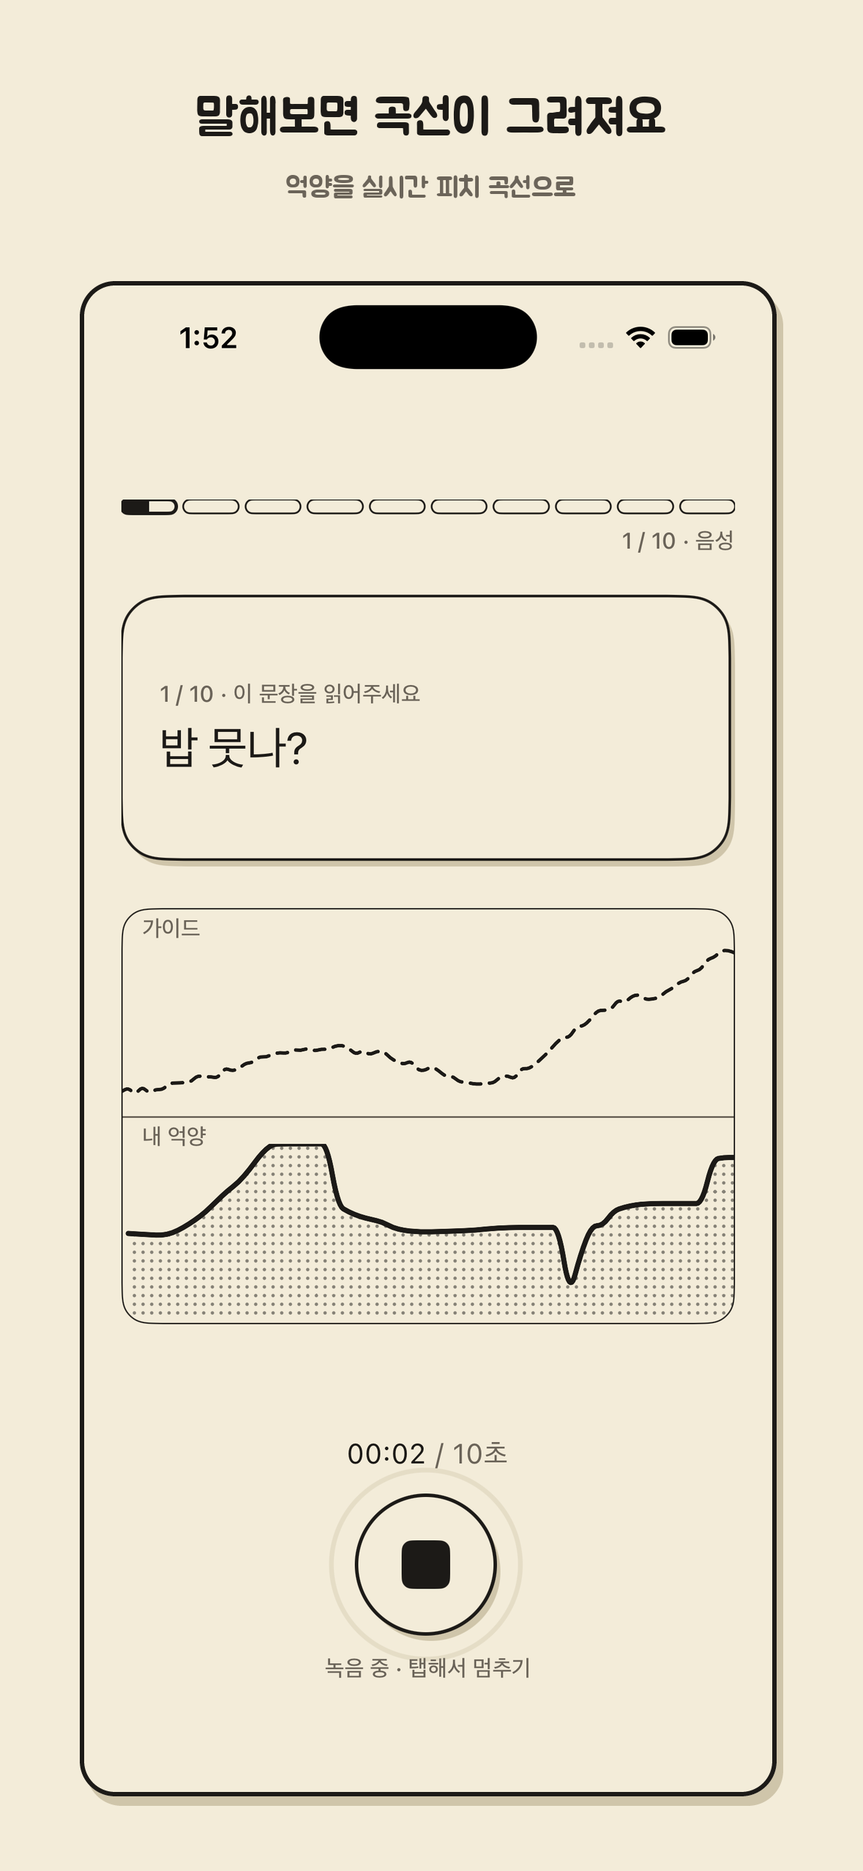
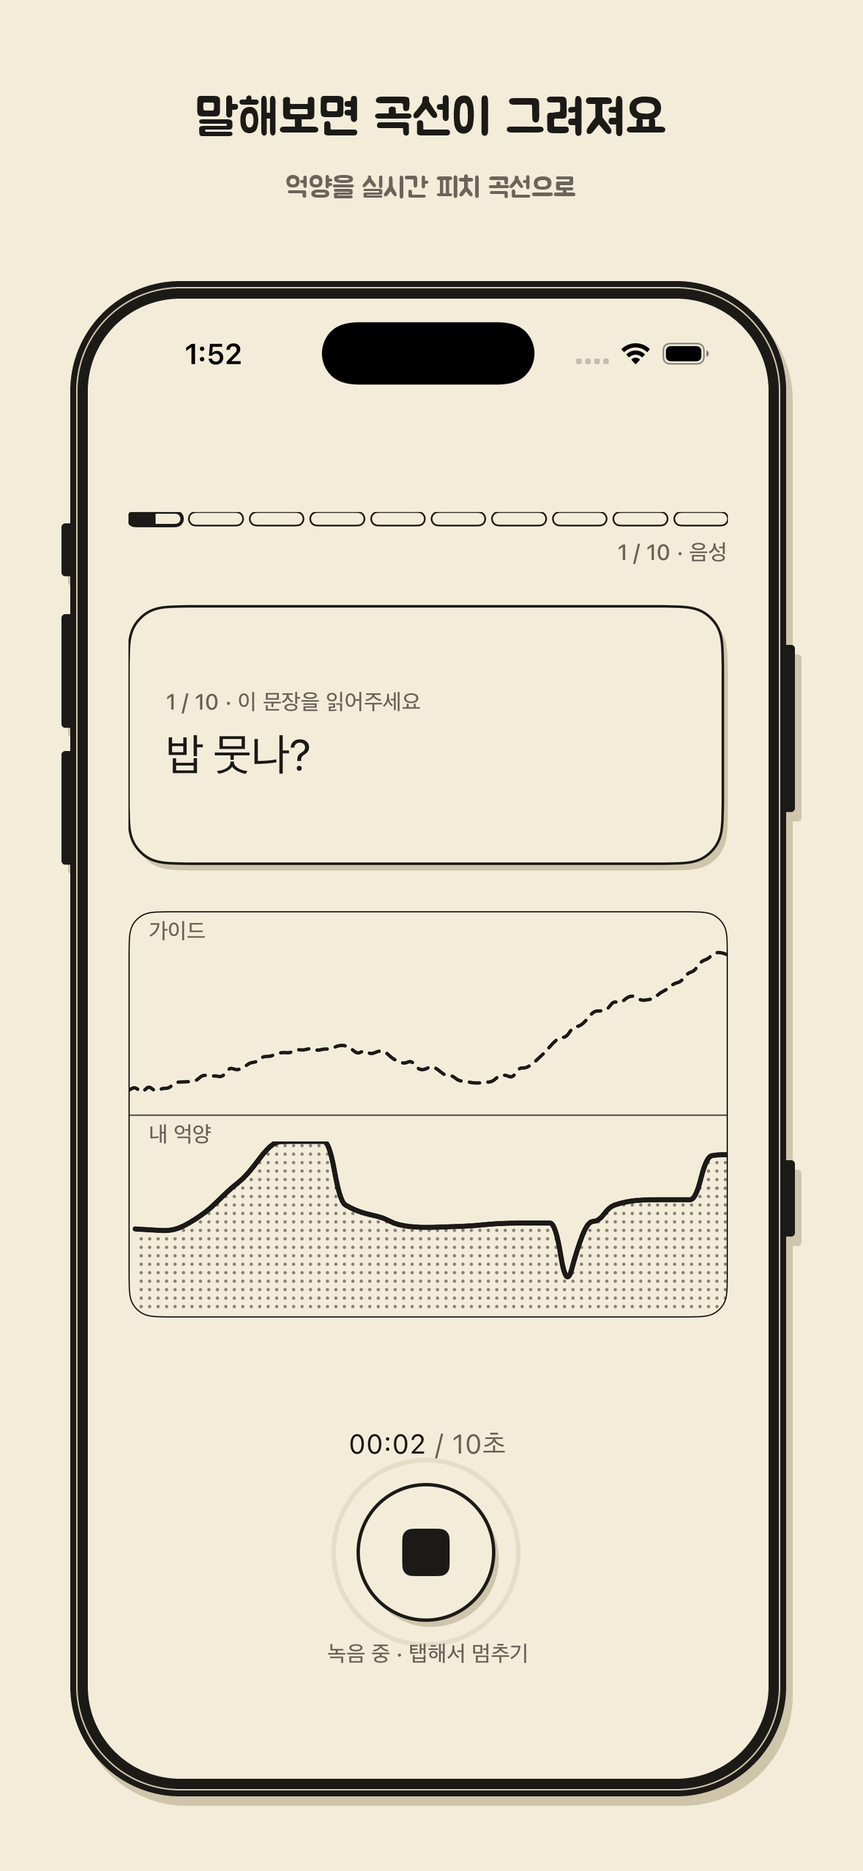
KAN-178 스크린샷 프레임을 기기 실루엣으로 - iOS는 iPhone 17 Pro, Android는 Galaxy S25
- DEVICE_IPHONE_17_PRO / DEVICE_GALAXY_S25 딕셔너리(화면 코너 반경·베젤·펀치홀·버튼 목록)와 PLATFORM_DEVICE 매핑. 기기 교체 = 딕셔너리 수정
- iPhone: 균일 얇은 베젤, 큰 코너, 왼쪽 액션·볼륨 2, 오른쪽 전원·카메라 컨트롤 / Galaxy: 작은 코너, 상단 중앙 펀치홀, 오른쪽 볼륨·전원, 하단 턱
- 본체+버튼을 한 마스크로 그려 그림자를 함께 드리움, 베젤 안쪽 종이그림자 띠(RAIL)로 금속 프레임 표현
- 검증표에 플랫폼별 버튼 여백(≥3%) 행 추가, 14/14 PASS. README 기기 프레임 절 추가

Claude-Session: https://claude.ai/code/session_01Nud2Q8pYYmbEKkf6aeyY5Q

diff --git a/assets/screenshots/build.py b/assets/screenshots/build.py
@@ -3,8 +3,13 @@
 
 원본은 `raw/android/<화면>.png`(에뮬레이터 캡처)와 `raw/ios/<화면>.png`(시뮬레이터 캡처)다. 그대로
 올려도 규격은 맞지만 네 장이 무슨 화면인지 스토어에서 읽히지 않는다. 그래서 화면마다 같은 틀을
-씌운다 — 크림 배경, 위쪽에 문구 두 줄(Jua), 아래에 캡처를 종이 조각처럼 앉힌 것(둥근 모서리 +
-잉크 테두리 + 오프셋 그림자). `assets/characters/build.py`의 공유 카드와 같은 구성이다.
+씌운다 — 크림 배경, 위쪽에 문구 두 줄(Jua), 아래에 캡처를 실제 기기 실루엣에 끼운 것(베젤 + 옆면
+버튼 + 오프셋 그림자). `assets/characters/build.py`의 공유 카드와 같은 Papercut 구성이다.
+
+실루엣은 플랫폼마다 다르다 — iOS 캡처는 iPhone 17 Pro(네 변 같은 얇은 베젤, 크게 둥근 모서리,
+왼쪽 3 + 오른쪽 2 버튼), Android 캡처는 Galaxy S25(더 각진 모서리, 펀치홀, 오른쪽 2 버튼).
+치수는 전부 `DEVICE_IPHONE_17_PRO` · `DEVICE_GALAXY_S25` 딕셔너리에 비율로 들어 있고,
+`PLATFORM_DEVICE`가 원본 폴더를 거기에 잇는다. **기기를 바꾸려면 딕셔너리만 고친다.**
 
 - Play 스토어      → `out/play/<화면>.png` (1080×1920) ← `raw/android/`
 - App Store 6.7"   → `out/appstore-6.7/<화면>.png` (1290×2796) ← `raw/ios/`
@@ -17,8 +22,8 @@
     /Users/iseongju/accentury/.venv/bin/python assets/screenshots/build.py
     ... --raw <원본 폴더> --out <출력 폴더>   # 임시 캡처로 배치만 확인할 때
 
-Pillow·numpy가 필요하다(위 venv에 있다). 끝에 규격 검증표를 찍는다 — 하나라도 FAIL이면 종료 코드 1,
-SKIP만 있으면 0이다.
+Pillow·numpy가 필요하다(위 venv에 있다). 끝에 규격 검증표를 찍는다 — 규격 12줄 + 플랫폼별 버튼
+여백 2줄. 하나라도 FAIL이면 종료 코드 1, SKIP만 있으면 0이다.
 """
 
 from __future__ import annotations
@@ -65,12 +70,51 @@ SIDE_MARGIN = 0.06  # W — 캡처 좌우 최소 여백
 TEXT_MAX_W = 0.88  # W — 문구가 이보다 넓으면 글자를 줄인다
 HEADLINE_FRAC = 0.058  # W
 SUB_FRAC = 0.032  # W
-MIN_CAPTURE_W = 0.62  # W — 세로로 긴 캡처를 높이에 맞추면 너무 작아진다. 이보다 좁아질 바에는
-#                            폭을 이 값으로 키우고 아래를 프레임 밖으로 흘린다(잘림).
-CORNER_R = 0.05  # 캡처 폭 대비 둥근 모서리 반지름
-OUTLINE_FRAC = 0.005  # W — 잉크 테두리 두께 (최소 4px)
+MIN_DEVICE_W = 0.62  # W — 세로로 긴 기기를 높이에 맞추면 너무 작아진다. 실루엣 폭이 이보다 좁아질
+#                          바에는 폭을 이 값으로 키우고 아래를 프레임 밖으로 흘린다(잘림).
 SHADOW_DX, SHADOW_DY = 0.0080, 0.0107  # W — 오프셋 그림자 (토큰 3:4 비율)
 SS = 4  # 마스크 안티에일리어싱 배수
+
+# --- 기기 실루엣 ----------------------------------------------------------------------------
+# 캡처를 그냥 둥근 네모에 넣으면 "어느 폰인지" 안 읽힌다. 아래 두 딕셔너리가 실루엣을 정한다 —
+# 화면 모서리 반지름·베젤 두께·옆면 버튼 위치. **기기를 갈아끼우려면 딕셔너리만 고친다.**
+# 값은 전부 비율이라 세 출력 규격에서 같은 그림이 나온다.
+BUTTON_THICK = 0.012  # 본체 폭 대비 — 버튼이 본체 밖으로 튀어나온 두께
+BUTTON_R = 0.45  # 버튼 두께 대비 모서리 반지름
+RAIL_DEPTH = 0.34  # 베젤 두께 대비 — 금속 테 띠가 앉는 깊이 (바깥에 잉크 테두리를 남긴다)
+RAIL_W = 0.0026  # 화면 폭 대비 테 띠 두께
+
+# iPhone 17 Pro — 네 변 베젤이 같고, 화면 모서리가 크게 둥글다. 왼쪽 3개(액션·볼륨 업·볼륨 다운)
+# 오른쪽 2개(전원·카메라 컨트롤). 버튼 값은 (변, 본체 높이 대비 시작, 본체 높이 대비 길이).
+DEVICE_IPHONE_17_PRO = {
+    "label": "iPhone 17 Pro",
+    "screen_radius": 0.135,  # 화면 폭 대비
+    "bezel": {"left": 0.026, "right": 0.026, "top": 0.026, "bottom": 0.026},  # 화면 폭 대비
+    "punch_hole": None,  # 다이내믹 아일랜드는 캡처 안에 이미 있다 — 그리지 않는다
+    "buttons": [
+        ("left", 0.160, 0.035),  # 액션 버튼
+        ("left", 0.220, 0.075),  # 볼륨 업
+        ("left", 0.310, 0.075),  # 볼륨 다운
+        ("right", 0.240, 0.110),  # 전원(사이드) 버튼
+        ("right", 0.580, 0.050),  # 카메라 컨트롤
+    ],
+}
+
+# Galaxy S25 — 평평한 알루미늄 테라 모서리가 훨씬 각지고, 베젤은 더 얇되 아래턱이 조금 두껍다.
+# 앞면 카메라는 화면을 뚫은 펀치홀이라 직접 그린다. 버튼은 오른쪽 두 개뿐이다.
+DEVICE_GALAXY_S25 = {
+    "label": "Galaxy S25",
+    "screen_radius": 0.070,
+    "bezel": {"left": 0.016, "right": 0.016, "top": 0.016, "bottom": 0.020},
+    "punch_hole": (0.026, 0.023),  # (화면 폭 대비 지름, 화면 높이 대비 중심 y)
+    "buttons": [
+        ("right", 0.190, 0.090),  # 볼륨 로커 (한 덩어리)
+        ("right", 0.310, 0.045),  # 전원(사이드) 키
+    ],
+}
+
+# 원본 폴더 이름 → 기기. iOS 두 규격은 같은 시뮬레이터 캡처를 쓰니 같은 실루엣을 받는다.
+PLATFORM_DEVICE = {"android": DEVICE_GALAXY_S25, "ios": DEVICE_IPHONE_17_PRO}
 
 # --- 캐릭터 스티커 -------------------------------------------------------------------------
 # 결과 화면에만 "경남 토박이"를 겹쳐 놓는다. `assets/characters/build.py` 산출물이라 없으면 건너뛴다.
@@ -126,25 +170,122 @@ def line_height(font: ImageFont.FreeTypeFont) -> int:
 
 
 # ==========================================================================================
-# 2. 프레임 한 장
+# 2. 기기 실루엣
 # ==========================================================================================
 
 
-def place(cap_w: int, cap_h: int, top: int, W: int, H: int) -> tuple[int, int, int, int]:
-    """캡처를 앉힐 (x, y, 폭, 높이). 기본은 전체가 다 보이게 맞추고, 그러면 폭이
-    MIN_CAPTURE_W보다 좁아질 때만 폭을 키워 아래를 프레임 밖으로 흘린다."""
+def geometry(device: dict, sw: int, sh: int) -> dict:
+    """화면 크기(sw × sh)에서 실루엣 치수를 전부 뽑는다. 길이는 모두 화면 폭 기준이라
+    출력 규격이 달라도 비율이 같다. 캔버스는 본체 + 좌우 버튼 돌출분이다."""
+    b = device["bezel"]
+    bl, br = max(1, round(sw * b["left"])), max(1, round(sw * b["right"]))
+    bt, bb = max(1, round(sw * b["top"])), max(1, round(sw * b["bottom"]))
+    body_w, body_h = sw + bl + br, sh + bt + bb
+    out = max(2, round(body_w * BUTTON_THICK))
+    screen_r = max(1, round(sw * device["screen_radius"]))
+    return {
+        "sw": sw,
+        "sh": sh,
+        "body_w": body_w,
+        "body_h": body_h,
+        "body_r": screen_r + bl,  # 동심 — 바깥 반지름 = 화면 반지름 + 베젤
+        "screen_r": screen_r,
+        "out": out,
+        "canvas_w": body_w + 2 * out,
+        "canvas_h": body_h,
+        "screen_xy": (out + bl, bt),
+        "bezel": bl,
+        "rail": max(1, round(sw * RAIL_W)),
+    }
+
+
+def silhouette(device: dict, g: dict) -> Image.Image:
+    """본체 + 버튼을 한 덩어리로 그린 마스크. 그림자는 이걸 그대로 옮겨 찍는다 —
+    따로 그리면 버튼 그림자가 어긋난다."""
+    W, H = g["canvas_w"], g["canvas_h"]
+    big = Image.new("L", (W * SS, H * SS), 0)
+    d = ImageDraw.Draw(big)
+    x0, x1 = g["out"] * SS, (g["out"] + g["body_w"]) * SS - 1
+    d.rounded_rectangle([x0, 0, x1, H * SS - 1], radius=g["body_r"] * SS, fill=255)
+    br = max(1, round(g["out"] * BUTTON_R)) * SS
+    for side, top_f, h_f in device["buttons"]:
+        y0 = round(top_f * g["body_h"]) * SS
+        y1 = y0 + max(1, round(h_f * g["body_h"])) * SS
+        span = [0, y0, x0 + g["out"] * SS, y1] if side == "left" else [x1 - g["out"] * SS, y0, W * SS - 1, y1]
+        d.rounded_rectangle(span, radius=br, fill=255)  # 본체 안으로 겹쳐 그려 이음매를 없앤다
+    return big.resize((W, H), Image.BOX)
+
+
+def button_extent(device: dict, g: dict) -> tuple[int, int] | None:
+    """버튼이 실제로 차지하는 x 범위(캔버스 기준). 버튼이 없는 변은 빼고 잰다 —
+    검증표에서 "가장 바깥 버튼 픽셀이 프레임 안에 있나"를 이 값으로 본다."""
+    xs: list[int] = []
+    for side, _, _ in device["buttons"]:
+        xs.append(0 if side == "left" else g["canvas_w"] - 1)
+    return (min(xs), max(xs)) if xs else None
+
+
+def draw_device(cap: Image.Image, device: dict, g: dict) -> tuple[Image.Image, Image.Image]:
+    """(기기 그림 RGBA, 실루엣 마스크). 본체는 잉크 한 색이고, 베젤 안쪽에 종이 그림자색 띠를
+    한 줄 넣어 금속 테를 암시한다. 화면에는 캡처를 그대로 앉힌다."""
+    W, H = g["canvas_w"], g["canvas_h"]
+    mask = silhouette(device, g)
+    dev = Image.new("RGBA", (W, H), (0, 0, 0, 0))
+    dev.paste(Image.new("RGB", (W, H), INK), (0, 0), mask)
+
+    # 금속 테 띠 — 베젤 안쪽 34% 깊이에 한 줄. 크림으로 넣으면 베젤이 두 겹으로 갈라져 보여서
+    # 종이 그림자색을 쓴다. 바깥에는 잉크가 남아 Papercut 테두리가 끊기지 않는다.
+    inset = max(1, round(g["bezel"] * RAIL_DEPTH))
+    ring = ImageChops.subtract(
+        rounded_mask(g["body_w"], g["body_h"], g["body_r"], inset),
+        rounded_mask(g["body_w"], g["body_h"], g["body_r"], inset + g["rail"]),
+    )
+    dev.paste(Image.new("RGB", (g["body_w"], g["body_h"]), PAPER_SHADOW), (g["out"], 0), ring)
+
+    # 화면 = 캡처. 상태바·홈 인디케이터·다이내믹 아일랜드는 캡처 안에 이미 있다.
+    sw, sh = g["sw"], g["sh"]
+    dev.paste(resize_rgba(cap, sw, sh).convert("RGB"), g["screen_xy"], rounded_mask(sw, sh, g["screen_r"]))
+
+    # 펀치홀(Galaxy) — 화면을 뚫은 앞면 카메라라 캡처 위에 찍는다.
+    if device["punch_hole"]:
+        dia_f, cy_f = device["punch_hole"]
+        dia = max(2, round(sw * dia_f))
+        cx = g["screen_xy"][0] + sw // 2
+        cy = g["screen_xy"][1] + round(sh * cy_f)
+        hole = rounded_mask(dia, dia, dia // 2)
+        dev.paste(Image.new("RGB", (dia, dia), INK), (cx - dia // 2, cy - dia // 2), hole)
+
+    return dev, mask
+
+
+# ==========================================================================================
+# 3. 프레임 한 장
+# ==========================================================================================
+
+
+def place(cap_w: int, cap_h: int, device: dict, top: int, W: int, H: int) -> tuple[int, int]:
+    """기기를 앉힐 화면 크기 (폭, 높이). 기본은 실루엣 전체가 다 보이게 맞추고, 그러면 폭이
+    MIN_DEVICE_W보다 좁아질 때만 폭을 키워 아래를 프레임 밖으로 흘린다.
+
+    베젤·버튼도 화면 폭에 비례하니, 실루엣 폭 = 화면 폭 × kw, 실루엣 높이 = 화면 폭 × kh 로
+    한 번에 풀린다. 버튼이 잘리지 않게 여백은 실루엣(=버튼 포함) 기준으로 잡는다."""
+    b = device["bezel"]
+    kw = (1 + b["left"] + b["right"]) * (1 + 2 * BUTTON_THICK)  # 화면 폭 → 실루엣 폭
+    kh = cap_h / cap_w + b["top"] + b["bottom"]  # 화면 폭 → 실루엣 높이
     dx, dy = round(W * SHADOW_DX), round(W * SHADOW_DY)
     max_w = W - 2 * round(W * SIDE_MARGIN) - dx
     avail_h = H - top - round(H * BOTTOM_PAD) - dy
 
-    scale = min(max_w / cap_w, avail_h / cap_h)
-    if scale * cap_w < W * MIN_CAPTURE_W:
-        scale = min(max_w / cap_w, W * MIN_CAPTURE_W / cap_w)
-    pw, ph = max(1, round(cap_w * scale)), max(1, round(cap_h * scale))
-    return (W - pw - dx) // 2, top, pw, ph
+    sw = min(max_w / kw, avail_h / kh)
+    if sw * kw < W * MIN_DEVICE_W:
+        sw = min(max_w / kw, W * MIN_DEVICE_W / kw)
+    return max(1, round(sw)), max(1, round(sw * cap_h / cap_w))
 
 
-def render(cap: Image.Image, screen: str, W: int, H: int, sticker: Image.Image | None) -> Image.Image:
+def render(
+    cap: Image.Image, screen: str, device: dict, W: int, H: int, sticker: Image.Image | None
+) -> tuple[Image.Image, float | None]:
+    """(프레임, 가장 바깥 버튼 픽셀의 좌우 여백 중 작은 쪽 / W). 여백은 검증표가 본다."""
     frame = Image.new("RGBA", (W, H), CREAM + (255,))
     draw = ImageDraw.Draw(frame)
 
@@ -158,17 +299,18 @@ def render(cap: Image.Image, screen: str, W: int, H: int, sticker: Image.Image |
     draw.text((W // 2, y), sub, font=sub_font, fill=MUTED, anchor="ma")
     y += line_height(sub_font) + round(H * BLOCK_GAP)
 
-    # 캡처 = 종이 조각. 그림자 → 캡처 → 잉크 테두리 순으로 얹는다.
-    x, y, pw, ph = place(cap.width, cap.height, y, W, H)
-    radius = max(1, round(pw * CORNER_R))
-    outline = max(4, round(W * OUTLINE_FRAC))
-    mask = rounded_mask(pw, ph, radius)
-    ring = ImageChops.subtract(mask, rounded_mask(pw, ph, radius, inset=outline))
-
+    # 기기 = 종이 조각. 그림자(실루엣을 통째로 옮긴 것) → 기기 순으로 얹는다.
+    sw, sh = place(cap.width, cap.height, device, y, W, H)
+    g = geometry(device, sw, sh)
+    dev, mask = draw_device(cap, device, g)
     dx, dy = round(W * SHADOW_DX), round(W * SHADOW_DY)
-    frame.paste(Image.new("RGB", (pw, ph), PAPER_SHADOW), (x + dx, y + dy), mask)
-    frame.paste(resize_rgba(cap, pw, ph).convert("RGB"), (x, y), mask)
-    frame.paste(Image.new("RGB", (pw, ph), INK), (x, y), ring)
+    x = (W - g["canvas_w"] - dx) // 2
+
+    frame.paste(Image.new("RGB", (g["canvas_w"], g["canvas_h"]), PAPER_SHADOW), (x + dx, y + dy), mask)
+    frame.alpha_composite(dev, (x, y))
+
+    span = button_extent(device, g)
+    margin = min(x + span[0], W - 1 - (x + span[1])) / W if span else None
 
     # 캐릭터 스티커 — 캡처 오른쪽 아래 모서리에 걸치게 둔다.
     if sticker is not None and screen == STICKER_SCREEN:
@@ -176,7 +318,7 @@ def render(cap: Image.Image, screen: str, W: int, H: int, sticker: Image.Image |
         fig = resize_rgba(sticker, sw, max(1, round(sticker.height * sw / sticker.width)))
         frame.alpha_composite(fig, (W - round(W * STICKER_RIGHT) - fig.width, H - round(H * STICKER_BOTTOM) - fig.height))
 
-    return frame.convert("RGB")
+    return frame.convert("RGB"), margin
 
 
 def save_png_under(img: Image.Image, path: Path, limit: int) -> int:
@@ -189,8 +331,10 @@ def save_png_under(img: Image.Image, path: Path, limit: int) -> int:
 
 
 # ==========================================================================================
-# 3. 검증
+# 4. 검증
 # ==========================================================================================
+
+BUTTON_MARGIN_MIN = 0.03  # W — 가장 바깥 버튼 픽셀이 프레임 변에서 이만큼은 떨어져 있어야 한다
 
 
 def validate(path: Path, W: int, H: int) -> tuple[str, bool | None]:
@@ -220,15 +364,32 @@ def main() -> None:
     print(f"캐릭터 스티커: {'native.webp' if sticker else '없음 (건너뜀)'}\n")
 
     rows: list[tuple[str, str, bool | None]] = []
+    margins: dict[str, list[float]] = {}
     for out_name, raw_name, W, H in OUTPUTS:
+        device = PLATFORM_DEVICE[raw_name]
         for screen in SCREENS:
             src = args.raw / raw_name / f"{screen}.png"
             dst = args.out / out_name / f"{screen}.png"
             if src.exists():
                 with Image.open(src) as cap:
-                    save_png_under(render(cap.convert("RGB"), screen, W, H, sticker), dst, MAX_BYTES)
+                    frame, margin = render(cap.convert("RGB"), screen, device, W, H, sticker)
+                save_png_under(frame, dst, MAX_BYTES)
+                if margin is not None:
+                    margins.setdefault(raw_name, []).append(margin)
             detail, ok = validate(dst if src.exists() else src, W, H)
             rows.append((f"{out_name}/{screen}", detail, ok))
+
+    # 플랫폼마다 한 줄 — 버튼이 프레임 밖으로 나가거나 변에 붙지 않았나. 실루엣이 넓어지면
+    # 여기부터 FAIL이 뜨니 MIN_DEVICE_W·SIDE_MARGIN을 줄이라는 신호다.
+    for raw_name, device in PLATFORM_DEVICE.items():
+        got = margins.get(raw_name)
+        label = f"버튼 여백/{raw_name}"
+        if not got:
+            rows.append((label, f"{device['label']} 원본 캡처 없음", None))
+            continue
+        worst = min(got)
+        detail = f"{device['label']} 가장 바깥 버튼 여백 {worst * 100:.1f}% (≥{BUTTON_MARGIN_MIN * 100:.0f}%)"
+        rows.append((label, detail, worst >= BUTTON_MARGIN_MIN))
 
     width = max(len(label) for label, _, _ in rows)
     for label, detail, ok in rows:

diff --git a/assets/screenshots/README.md b/assets/screenshots/README.md
@@ -1,8 +1,8 @@
 # 스토어 스크린샷 (KAN-178)
 
 Play 스토어·App Store에 올리는 스크린샷 네 장의 **원본 캡처와 생성 스크립트**가 여기 있다.
-`build.py`가 기기 캡처 한 장에 같은 프레임(크림 배경 + 문구 두 줄 + 종이 조각처럼 앉힌 캡처)을 씌워
-규격별 파생본을 만든다 — **생성물은 손으로 고치지 않는다.**
+`build.py`가 기기 캡처 한 장에 같은 프레임(크림 배경 + 문구 두 줄 + 실제 기기 실루엣에 끼운 캡처)을
+씌워 규격별 파생본을 만든다 — **생성물은 손으로 고치지 않는다.**
 
 ## 폴더 구성
 
@@ -25,15 +25,34 @@ out/appstore-6.1/<화면>.png  App Store 6.1" 1179×2556       (생성물)
 - 바탕은 크림 `#F3ECD9` 한 색이다. 앱 화면과 같은 종이 위에 캡처를 오려 붙인 것으로 읽히게 한다
 - 위쪽에 문구 두 줄 — 헤드라인은 Jua 잉크 `#1C1A17`, 보조 줄은 Jua 작게 `#6B6459`. 가운데 정렬이고,
   프레임 폭의 88%를 넘으면 글자 크기를 줄인다(잘린 문구가 스토어에 걸리는 게 최악이다)
-- 아래에 캡처. 둥근 모서리(캡처 폭의 5%) + 잉크 테두리 + `#CFC5AA` 오프셋 그림자 — `docs/wiki/design-tokens.md`
-  §2의 Papercut 규칙(3px 4px 0)을 프레임 폭 비율로 옮긴 값이다
+- 아래에 캡처. 그냥 둥근 네모가 아니라 **실제 기기 실루엣**에 끼운다(아래 표) — 잉크 베젤 + 옆면 버튼 +
+  `#CFC5AA` 오프셋 그림자. 그림자는 본체와 버튼을 한 덩어리로 묶은 마스크를 그대로 옮겨 찍는다.
+  `docs/wiki/design-tokens.md` §2의 Papercut 규칙(3px 4px 0)을 프레임 폭 비율로 옮긴 값이다
 - `04-result`에만 캐릭터 스티커(`web/src/assets/characters/native.webp`, 경남 토박이)를 오른쪽 아래
   모서리에 걸쳐 놓는다. 그 파일이 없으면 스티커 없이 만든다(`assets/characters/build.py` 산출물이다)
 
+### 기기 실루엣
+
+플랫폼마다 다른 폰을 쓴다. 스토어에서 그 폰으로 찍은 것처럼 읽혀야 하기 때문이다.
+
+| 원본 폴더 | 기기 | 화면 모서리 | 베젤 | 버튼 | 그 밖에 |
+| --- | --- | --- | --- | --- | --- |
+| `raw/ios/` | iPhone 17 Pro | 화면 폭의 13.5% | 네 변 모두 2.6% | 왼쪽 3(액션·볼륨 업·볼륨 다운) · 오른쪽 2(전원·카메라 컨트롤) | 다이내믹 아일랜드·홈 인디케이터는 캡처 안에 있어 그리지 않는다 |
+| `raw/android/` | Galaxy S25 | 화면 폭의 7% | 좌우·위 1.6%, 아래턱 2.0% | 오른쪽 2(볼륨 로커·전원) | 앞면 카메라 펀치홀을 화면 위에 직접 찍는다 |
+
+치수는 `build.py`의 `DEVICE_IPHONE_17_PRO` · `DEVICE_GALAXY_S25` 딕셔너리에 전부 **화면 폭 대비 비율**로
+들어 있고, `PLATFORM_DEVICE = {"android": ..., "ios": ...}`가 원본 폴더를 기기에 잇는다. **기기를 갈아끼우려면
+그 딕셔너리만 고친다** — 버튼은 `(변, 본체 높이 대비 시작, 본체 높이 대비 길이)` 세 값이다. 비율이라 세 출력
+규격에서 같은 그림이 나온다.
+
+베젤 안쪽에는 `#CFC5AA` 띠를 한 줄 넣어 금속 테를 암시한다(`RAIL_DEPTH`·`RAIL_W`). 크림으로 넣어 봤더니
+베젤이 두 겹으로 갈라져 보여서 종이 그림자색을 썼다.
+
 캡처는 **전체가 다 보이는 크기**로 넣는다. 좌우 여백이 6% 이상이면 잘라내지 않는다는 뜻이라, 9:16
-프레임(Play)에 20:9 캡처를 넣으면 좌우가 18%씩 비고 캡처는 프레임 폭의 64%가 된다. 그림 아래쪽이
+프레임(Play)에 20:9 캡처를 넣으면 좌우가 16%씩 비고 기기는 프레임 폭의 66%가 된다. 그림 아래쪽이
 잘려서 버튼이 사라지는 것보다 낫다고 봤다. 캡처가 더 길어져 폭이 프레임의 62% 아래로 떨어질 때만
-폭을 62%로 키우고 아래를 프레임 밖으로 흘린다(`MIN_CAPTURE_W`).
+폭을 62%로 키우고 아래를 프레임 밖으로 흘린다(`MIN_DEVICE_W`). 여백·최소 폭은 모두 **버튼을 포함한
+실루엣** 기준이라 버튼이 잘리는 일은 없다 — 검증표 마지막 두 줄이 그걸 본다.
 
 Android 상태바·내비게이션 바는 **자르지 않는다.** Play가 허용하고, 자르기 시작하면 기기마다 기준이
 갈린다. 크기만 맞춘다.
@@ -78,8 +97,9 @@ xcrun simctl io booted screenshot assets/screenshots/raw/ios/01-intro.png
 ... assets/screenshots/build.py --raw <원본 폴더> --out <출력 폴더>
 ```
 
-Pillow·numpy가 필요하다(위 venv에 있다). 끝에 규격 검증표를 찍는다 — 파일 존재·정확한 픽셀 크기·
-알파 없는 RGB·모서리 색이 크림인지·8MB 이하. 하나라도 FAIL이면 종료 코드 1이고, SKIP만 있으면 0이다.
+Pillow·numpy가 필요하다(위 venv에 있다). 끝에 검증표를 찍는다 — 규격 12줄(파일 존재·정확한 픽셀 크기·
+알파 없는 RGB·모서리 색이 크림인지·8MB 이하)과 플랫폼별 버튼 여백 2줄(가장 바깥 버튼 픽셀이 프레임 변에서
+3% 이상 떨어져 있는지). 하나라도 FAIL이면 종료 코드 1이고, SKIP만 있으면 0이다.
 
 ## 규격 (업로드 기준)
 
